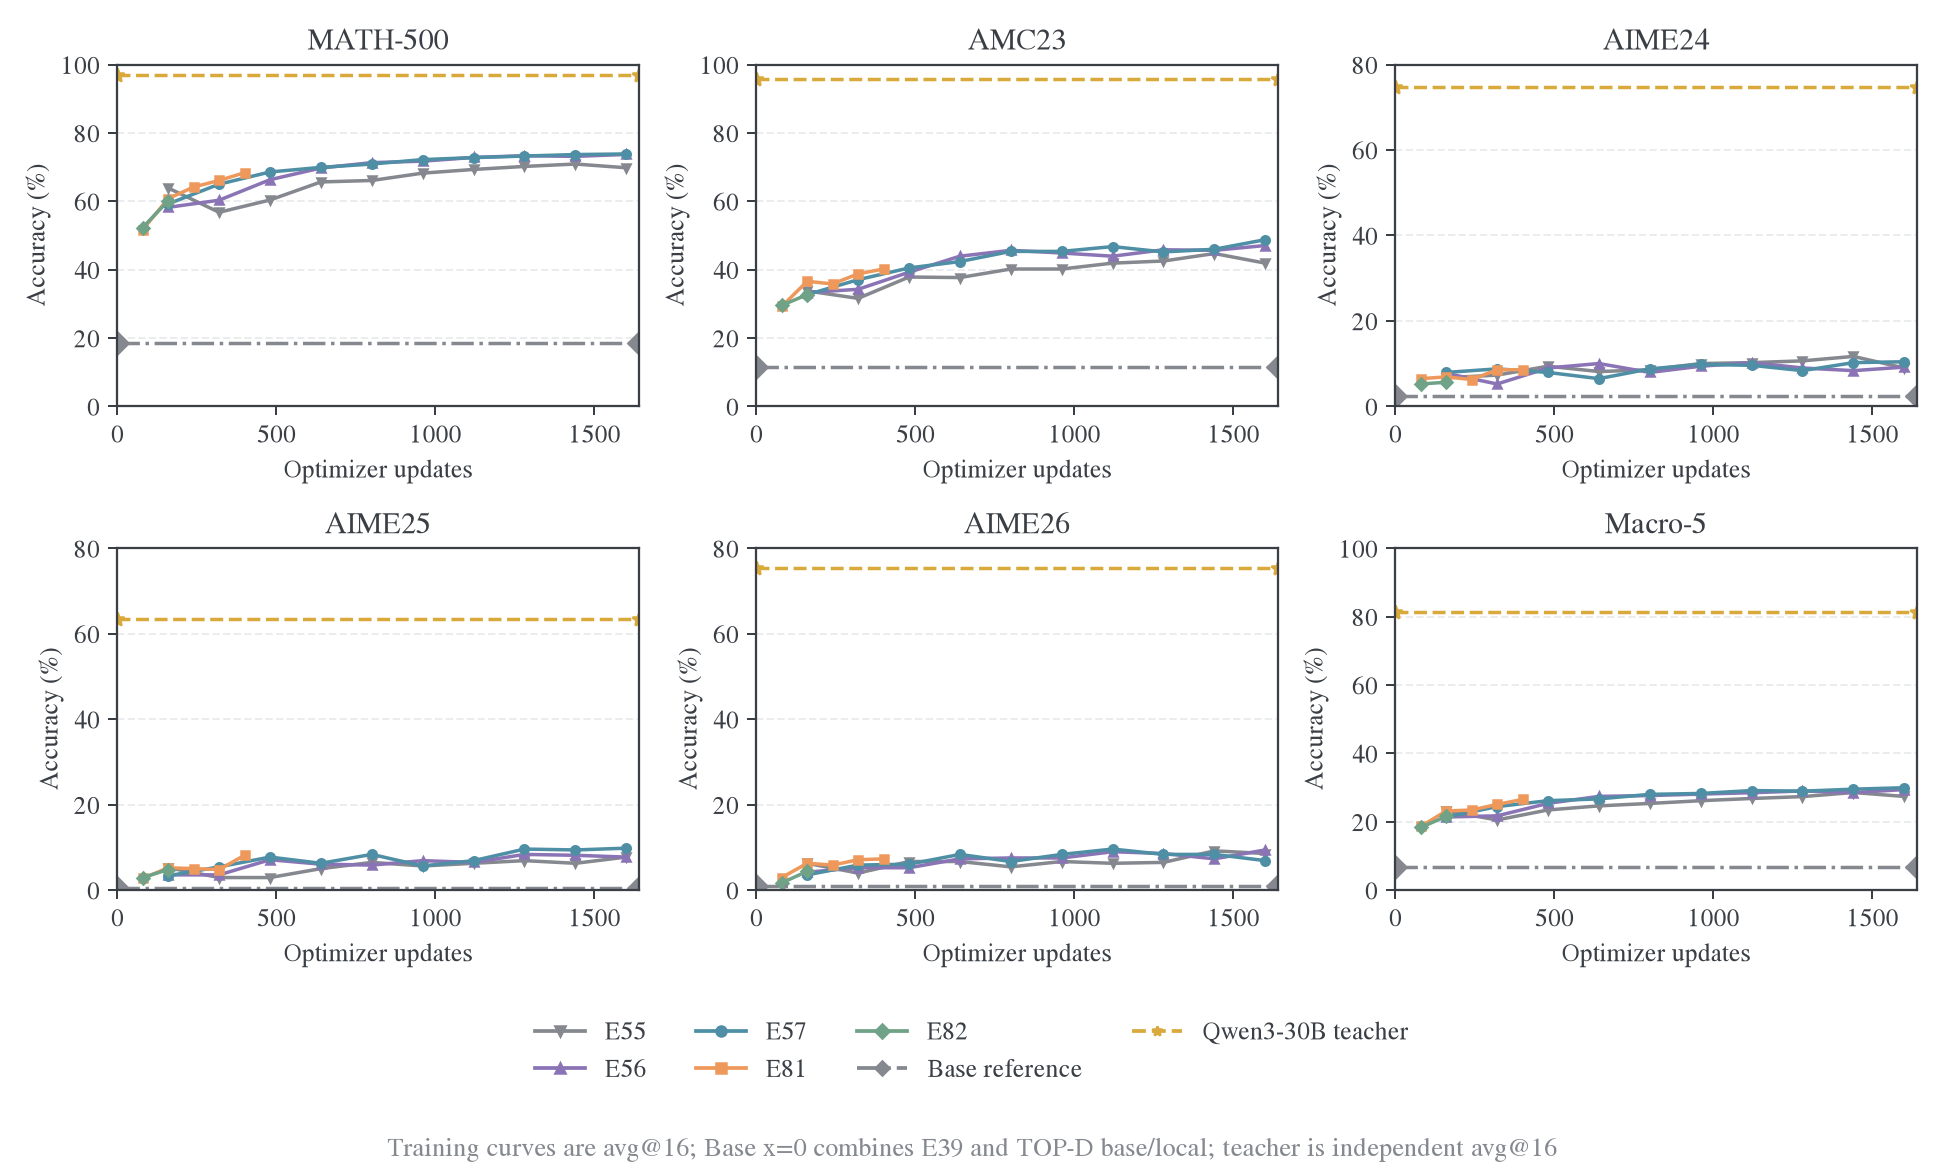
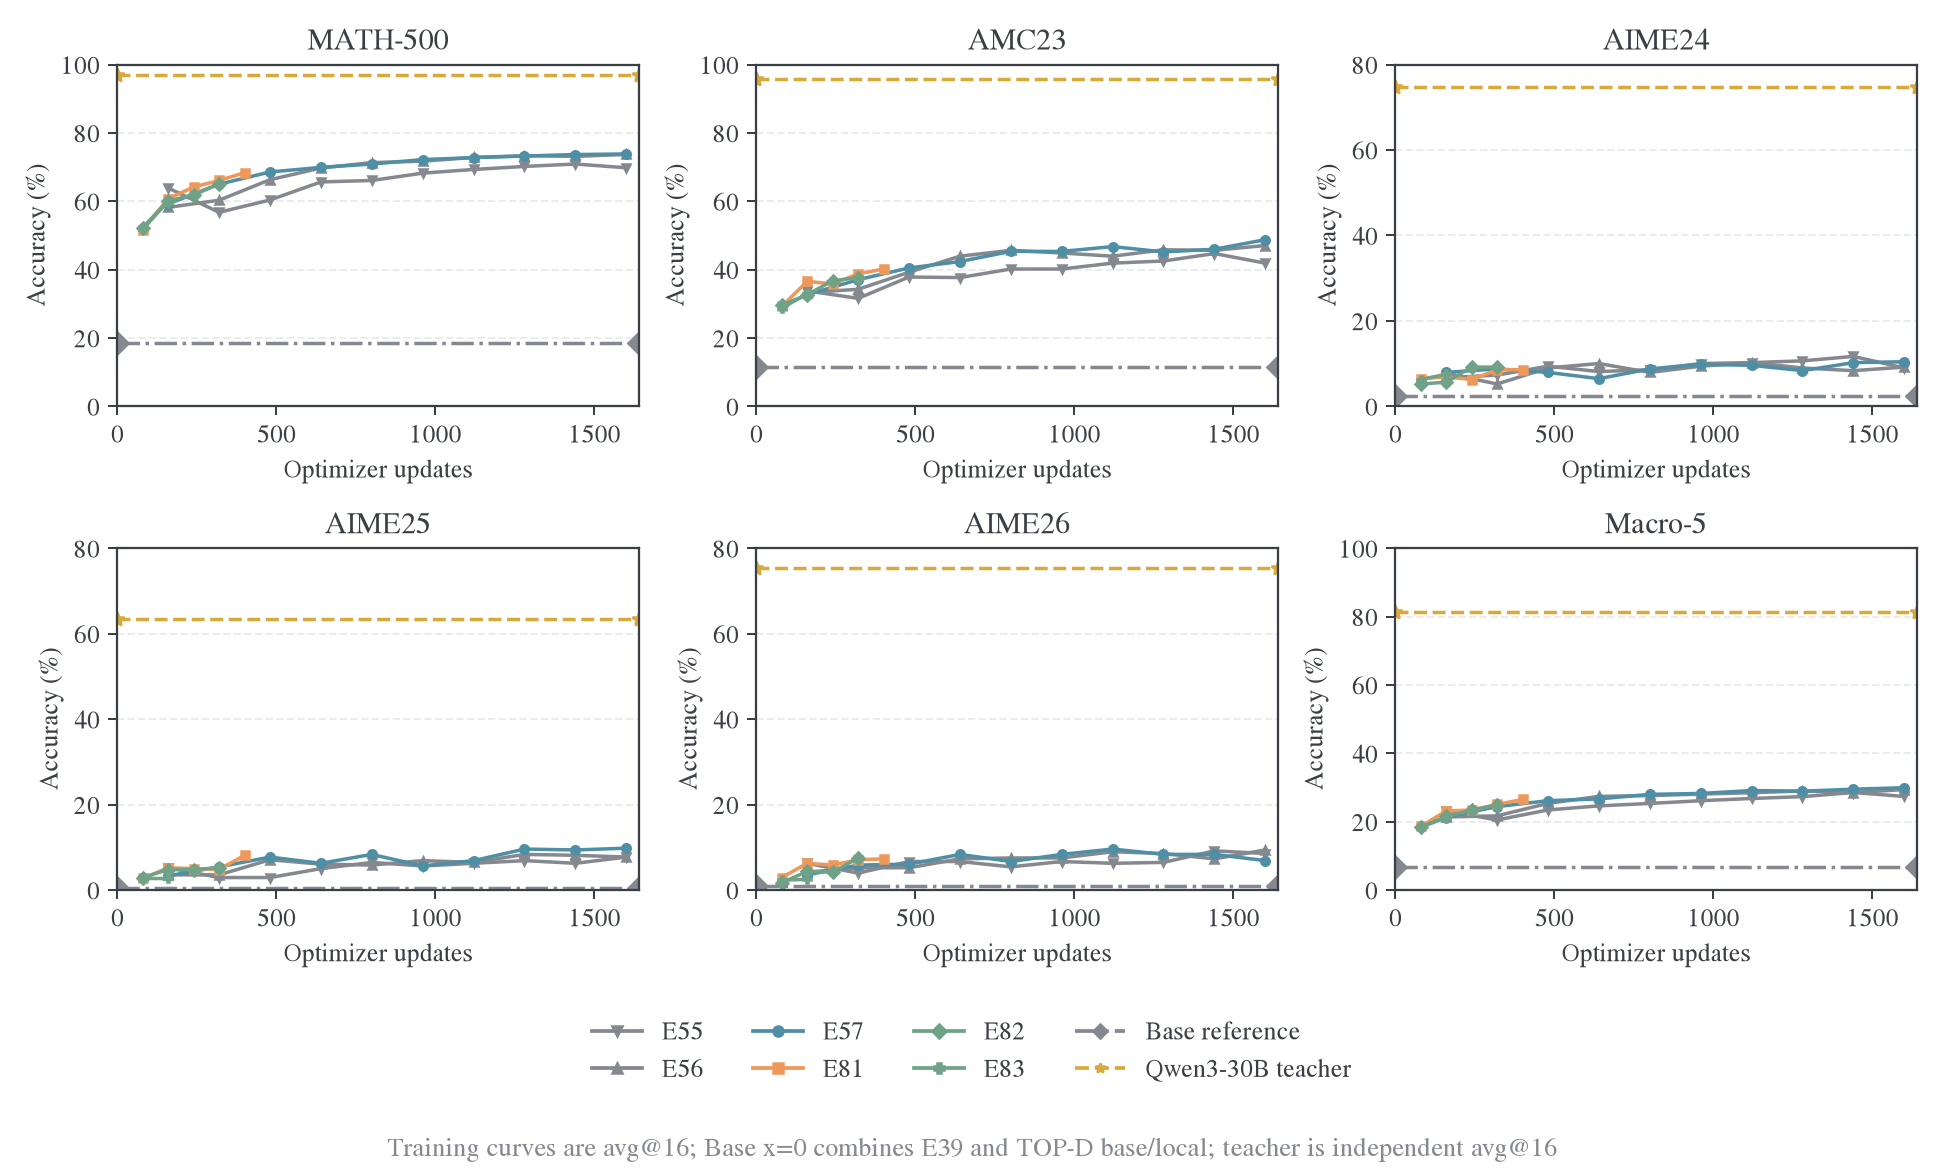
feat(learning-signal): update validation analysis and budget

diff --git a/examples/mirroropd/research/studies/weighted_targets/plot_validation_comparison.py b/examples/mirroropd/research/studies/weighted_targets/plot_validation_comparison.py
@@ -9,7 +9,7 @@ stopping: their repetition_rate is missing, never zero. EOS/stop is an engine
 finish category, not evidence of a coherent answer. Macro-5 and AIME means give
 each benchmark equal weight. TOP-D has no length/finish data in these sources.
 Geometry ledger: local runs use 16 updates/outer and batch64 (E55--57) or
-batch256 (E81/82). TOP-D alpha0.1/0.2 use 16 updates and 4096 presentations/outer.
+batch256 (E81--83). TOP-D alpha0.1/0.2 use 16 updates and 4096 presentations/outer.
 Accuracy panels use labelled independent benchmark y ranges; paper panels share
 0--25 percent. Full and early views contain only observed points within each
 window: no interpolated boundary observations, smoothing or extrapolation.
@@ -39,7 +39,7 @@ from examples.mirroropd.research.studies.weighted_targets.plot_e81_validation im
 BASE = ROOT / "examples/mirroropd/docs/experiments/learning-signal"
 DEFAULT_OUT = BASE / "figures/validation-comparison-20261106"
 RUNS = ROOT / "runs/topd-large-batch-20261105/formal"
-LOCAL = ("E55", "E56", "E57", "E81", "E82")
+LOCAL = ("E55", "E56", "E57", "E81", "E82", "E83")
 REFERENCE = ("Base reference", "Qwen3-30B teacher")
 ACCURACY_RUNS = (*LOCAL, *REFERENCE)
 PAPER = ("TOP-D alpha=0.1", "TOP-D alpha=0.2")
@@ -60,7 +60,7 @@ FIELDS = (
 
 
 def clock(run, outer):
-    batch = 256 if run in ("E81", "E82") or run in PAPER else 64
+    batch = 256 if run in ("E81", "E82", "E83") or run in PAPER else 64
     return dict(
         run=run,
         outer=outer,
@@ -126,7 +126,7 @@ def external_source(path):
 
 
 def extract_live(run, sources):
-    root = RUNS / run
+    root = RUNS / run if run != "E83" else ROOT / "runs/topd-learning-signal-20261106/formal/E83"
     path = root / "metrics.jsonl"
     original = path.read_bytes()
     raw, exclusions = trusted_metrics(path, original)
@@ -187,7 +187,20 @@ def extract_live(run, sources):
     }
     for key in ("update_applied", "update_skipped", "loss_nonfinite", "grad_norm_preclip_nonfinite"):
         audit[key] = sum(r["optim/actor/" + key] for r in updates)
-    return rows, audit
+    runtime = [
+        {
+            "run": run,
+            "outer": outer,
+            "optimizer_update": record["step/update"],
+            "train_seconds": record["perf/timing/outer_step_seconds"],
+            "validation_seconds": record["perf/timing/validation_seconds"],
+            "actor_seconds": record["perf/timing/update_actor_seconds"],
+            "rollout_seconds": record["perf/timing/rollout_pipeline_seconds"],
+            "train_response_length": record["rollout/response_length/mean"],
+        }
+        for outer, record in sorted(complete.items())
+    ]
+    return rows, audit, runtime
 
 
 def refresh(out):
@@ -218,9 +231,12 @@ def refresh(out):
                     }
                 )
     audit = {}
-    for run in ("E81", "E82"):
-        live, audit[run] = extract_live(run, sources)
+    runtime = []
+    for run in ("E81", "E82", "E83"):
+        live, audit[run], timing = extract_live(run, sources)
         rows.extend(live)
+        if run != "E81":
+            runtime.extend(timing)
     path = BASE / "data/topd-e57-all-curves-20261104/curves.csv"
     raw = path.read_bytes()
     sources.append(source(path, raw))
@@ -249,6 +265,22 @@ def refresh(out):
         writer = csv.DictWriter(stream, fieldnames=FIELDS)
         writer.writeheader()
         writer.writerows(rows)
+    with (out / "runtime.csv").open("w", newline="") as stream:
+        writer = csv.DictWriter(
+            stream,
+            fieldnames=(
+                "run",
+                "outer",
+                "optimizer_update",
+                "train_seconds",
+                "validation_seconds",
+                "actor_seconds",
+                "rollout_seconds",
+                "train_response_length",
+            ),
+        )
+        writer.writeheader()
+        writer.writerows(runtime)
     (out / "source-audit.json").write_text(json.dumps(audit, indent=2) + "\n")
     provenance = {
         "snapshot_utc": datetime.now(timezone.utc).isoformat(timespec="seconds"),
@@ -270,10 +302,10 @@ def refresh(out):
         "local_metric": "benchmark avg@16; macro5/AIME mean are unweighted benchmark means",
         "paper_metric": "Figure5 vector vertices avg@32; published smoothing, if any, is retained",
         "missing": "Repetition stopping disabled in E55--57: blank, not zero. Paper length/finish metrics unavailable.",
-        "clocks": "16 updates/outer; local batch64(E55--57)/256(E81/82); TOP-D4096 presentations/outer",
+        "clocks": "16 updates/outer; local batch64(E55--57)/256(E81--83); TOP-D4096 presentations/outer",
         "limitations": [
             "Paper/local prompts, decoding, cap, scoring and update algorithms differ; no causal ranking",
-            "E55--57 use historical numerical execution and no repetition stopping; E81/82 enable detector",
+            "E55--57 use historical numerical execution and no repetition stopping; E81--83 enable detector",
             "E81/82 share a nominal seed/prefix setting, not independent replications",
             "Only complete live validations with matching metrics are admitted; "
             "independent Base/teacher references are explicit x=0 points",
@@ -334,20 +366,21 @@ def plot(rows, out):
 
     fv = style()
     theme = fv.apply_rc("paper")
-    # Each figure has at most four active hue families plus neutral gray.
+    # Reuse the same run colors throughout the figure set.
     palette = fv.series_colors("paper", 9)
     colors = {
         "E55": fv.NEUTRALS["baseline"],
-        "E56": palette[3],
+        "E56": fv.NEUTRALS["baseline"],
         "E57": palette[0],
         "E81": palette[1],
         "E82": palette[4],
+        "E83": palette[4],
         PAPER[0]: palette[2],
         PAPER[1]: palette[2],
         REFERENCE[0]: fv.NEUTRALS["baseline"],
         REFERENCE[1]: palette[5],
     }
-    markers = dict(zip(LOCAL, ("v", "^", "o", "s", "D"), strict=True)) | {
+    markers = dict(zip(LOCAL, ("v", "^", "o", "s", "D", "P"), strict=True)) | {
         PAPER[0]: "",
         PAPER[1]: "",
         REFERENCE[0]: "D",
@@ -459,7 +492,7 @@ def plot(rows, out):
         )
         save(fig, out, stem, fv)
 
-    runs = ("E57", "E81", "E82", *PAPER, *REFERENCE)
+    runs = ("E57", "E81", "E82", "E83", *PAPER, REFERENCE[0])
     for key, label, stem, full, early, divisor in (
         ("optimizer_update", "Optimizer updates", "aime-optimizer-updates", 6720, 1600, 1),
         (
@@ -518,10 +551,30 @@ def plot(rows, out):
             fig,
             runs,
             "Local avg@16 / paper avg@32 vector readouts; protocols differ; no invented local step0\n"
-            "Early panels connect only observations inside the window; full curves are shown above",
+            "Teacher omitted above 25%; see full-range accuracy panels",
             columns=5,
         )
         save(fig, out, stem, fv)
+
+    with (out / "runtime.csv").open() as stream:
+        runtime = list(csv.DictReader(stream))
+    if runtime:
+        fig, axes = plt.subplots(1, 2, figsize=(10.2, 4.1), sharey=True)
+        for ax, run in zip(axes, ("E82", "E83"), strict=True):
+            points = [r for r in runtime if r["run"] == run]
+            xs = [int(r["outer"]) for r in points]
+            train = [float(r["train_seconds"]) / 60 for r in points]
+            valid = [float(r["validation_seconds"]) / 60 for r in points]
+            width = 1.7
+            ax.bar(xs, train, width=width, label="Training", color=palette[4])
+            ax.bar(xs, valid, width=width, bottom=train, label="Validation", color=fv.NEUTRALS["baseline"])
+            ax.set(title=run, xlabel="Completed outer", xticks=xs)
+            frame(ax)
+        axes[0].set_ylabel("Minutes per outer and validation event")
+        handles, labels = axes[0].get_legend_handles_labels()
+        fig.legend(handles, labels, loc="lower center", ncol=2, frameon=False, bbox_to_anchor=(0.5, 0.035))
+        fig.tight_layout(rect=(0, 0.12, 1, 1))
+        save(fig, out, "training-validation-runtime", fv)
 
 
 def main():

diff --git a/examples/mirroropd/launchers/prepare_validation_budget.py b/examples/mirroropd/launchers/prepare_validation_budget.py
@@ -1,0 +1,68 @@
+#!/usr/bin/env python3
+# Copyright 2026 MirrorOPD-verl contributors
+# SPDX-License-Identifier: Apache-2.0
+"""Create immutable per-benchmark validation copies with an explicit rollout n."""
+
+from __future__ import annotations
+
+import argparse
+import hashlib
+import json
+from pathlib import Path
+
+import pyarrow as pa
+import pyarrow.parquet as pq
+
+ROLLOUTS = {"MATH-500": 4, "AMC23": 16, "AIME24": 16, "AIME25": 16, "AIME26": 16}
+
+
+def prepare(output_dir: Path, inputs: list[Path]) -> dict:
+    if len(inputs) != len(ROLLOUTS):
+        raise ValueError(f"Expected {len(ROLLOUTS)} benchmark files, got {len(inputs)}")
+
+    manifest = {"profile": "math4_rest16", "datasets": {}}
+    seen = set()
+    for source_path in inputs:
+        table = pq.read_table(source_path)
+        if "data_source" not in table.column_names:
+            raise ValueError(f"Validation file lacks data_source: {source_path}")
+        names = set(table.column("data_source").to_pylist())
+        if len(names) != 1:
+            raise ValueError(f"Expected one data_source in {source_path}, got {sorted(names)}")
+        name = names.pop()
+        if name not in ROLLOUTS or name in seen:
+            raise ValueError(f"Unexpected or duplicate validation benchmark {name!r}")
+        if "__rollout_n__" in table.column_names:
+            raise ValueError(f"Refusing to replace existing __rollout_n__ in {source_path}")
+        seen.add(name)
+
+        rollout_n = ROLLOUTS[name]
+        output_path = output_dir / name / source_path.name
+        output_path.parent.mkdir(parents=True, exist_ok=True)
+        table = table.append_column("__rollout_n__", pa.array([rollout_n] * table.num_rows, type=pa.int64()))
+        pq.write_table(table, output_path)
+        manifest["datasets"][name] = {
+            "source": str(source_path.resolve()),
+            "source_sha256": hashlib.sha256(source_path.read_bytes()).hexdigest(),
+            "output": str(output_path.resolve()),
+            "rows": table.num_rows,
+            "rollout_n": rollout_n,
+        }
+
+    if seen != set(ROLLOUTS):
+        raise ValueError(f"Missing benchmarks: {sorted(set(ROLLOUTS) - seen)}")
+    output_dir.mkdir(parents=True, exist_ok=True)
+    (output_dir / "manifest.json").write_text(json.dumps(manifest, indent=2) + "\n")
+    return manifest
+
+
+def main() -> None:
+    parser = argparse.ArgumentParser()
+    parser.add_argument("--output-dir", required=True, type=Path)
+    parser.add_argument("inputs", nargs="+", type=Path)
+    args = parser.parse_args()
+    prepare(args.output_dir, args.inputs)
+
+
+if __name__ == "__main__":
+    main()

diff --git a/tests/examples/test_validation_budget_profile.py b/tests/examples/test_validation_budget_profile.py
@@ -1,0 +1,35 @@
+# Copyright 2026 MirrorOPD-verl contributors
+# SPDX-License-Identifier: Apache-2.0
+
+import pyarrow as pa
+import pyarrow.parquet as pq
+import pytest
+
+from examples.mirroropd.launchers.prepare_validation_budget import ROLLOUTS, prepare
+
+
+def test_math4_rest16_prepares_per_benchmark_rollout_counts_without_mutating_sources(tmp_path):
+    inputs = []
+    for name in ROLLOUTS:
+        path = tmp_path / "source" / name / "test.parquet"
+        path.parent.mkdir(parents=True)
+        pq.write_table(pa.table({"data_source": [name, name], "prompt": [[], []]}), path)
+        inputs.append(path)
+
+    output = tmp_path / "run" / "validation-budget" / "math4-rest16"
+    manifest = prepare(output, inputs)
+
+    assert {name: entry["rollout_n"] for name, entry in manifest["datasets"].items()} == ROLLOUTS
+    for name in ROLLOUTS:
+        source = pq.read_table(tmp_path / "source" / name / "test.parquet")
+        prepared = pq.read_table(output / name / "test.parquet")
+        assert "__rollout_n__" not in source.column_names
+        assert prepared.column("__rollout_n__").to_pylist() == [ROLLOUTS[name]] * 2
+        assert prepared.column("data_source").to_pylist() == [name, name]
+
+
+def test_math4_rest16_rejects_unknown_or_duplicate_benchmarks(tmp_path):
+    path = tmp_path / "test.parquet"
+    pq.write_table(pa.table({"data_source": ["unknown"]}), path)
+    with pytest.raises(ValueError, match="Unexpected or duplicate"):
+        prepare(tmp_path / "output", [path] * len(ROLLOUTS))

diff --git a/examples/mirroropd/launchers/math_experiment.py b/examples/mirroropd/launchers/math_experiment.py
@@ -326,6 +326,8 @@ def preset_catalog() -> dict[str, Preset]:
     for number, future, aggregation, _label in eight_gpu_ablation:
         environment = dict(presets["E82"].environment)
         environment["STUDENT_GPUS"] = "8"
+        if number >= 87:
+            environment["VAL_N_PROFILE"] = "math4_rest16"
         presets[f"E{number}"] = replace(
             presets["E82"],
             budget=replace(presets["E82"].budget, save=-1, keep=None),
@@ -791,6 +793,7 @@ def preset_overview() -> str:
             "E85–E90：继承E82预算与MDPO设置，改用8卡 shared_sync；"
             "E85/E86/E87分别为none下的token-sum、seq-mean-token-sum、seq-mean-token-sum-norm；"
             "E88/E89/E90分别为token-mean下的future sum、discounted_sum(gamma=.99)、discounted_mean(gamma=.99)。"
+            "E87–E90 使用MATH-500 n=4、其余四个数学bench n=16；E85/E86维持原avg@16。"
             "六组均save_freq=-1、resume_mode=disable，不保存checkpoint、HF模型或optimizer。",
             "E41/E54 Full-KL 与 full-vocab MDPO 默认对齐终止动作 [151643,151645]；"
             "FULL_KL_TERMINATION_TOKEN_IDS=[] 可恢复原始词表目标。",

diff --git a/tests/examples/test_mirroropd_math_launcher_on_cpu.py b/tests/examples/test_mirroropd_math_launcher_on_cpu.py
@@ -139,6 +139,7 @@ def _launch(tmp_path, script=SCRIPT, command=None, **overrides):
         "FULL_KL_ASYNC_WRITE",
         "FULL_KL_PREFETCH",
         "FULL_KL_TERMINATION_TOKEN_IDS",
+        "VAL_N_PROFILE",
     ):
         env.pop(name, None)
     env.update(
@@ -1468,3 +1469,7 @@ def test_topd_eight_gpu_ablation_presets_disable_checkpoints(tmp_path, preset, f
     assert loss.full_vocab.future.mode == future and loss.full_vocab.future.gamma == gamma
     assert actor.loss_agg_mode == aggregation
     assert actor.optim.lr == 1e-6 and actor.ppo_epochs == 16
+    if preset in {"E85", "E86"}:
+        assert all("math4-rest16" not in path for path in cfg.data.val_files)
+    else:
+        assert cfg.data.val_files[0].endswith("math4-rest16/MATH-500/test.parquet")

diff --git a/examples/mirroropd/docs/experiments/learning-signal/weighted-targets-controls.md b/examples/mirroropd/docs/experiments/learning-signal/weighted-targets-controls.md
@@ -486,6 +486,8 @@ $$
 | E90      | `discounted_mean`，γ0.99 | `token-mean`              | 只改 future：折扣后续均值             |
 | 尚未排期 | `mean`，γ1               | `seq-mean-token-mean`     | future 与聚合的交互；本轮不启动       |
 
+E85/E86 已按五个 benchmark 统一 n=16 启动。后续 E87–E90 使用 MATH-500 n=4、AMC23 与 AIME24/25/26 n=16，每个完整验证点为 4,080 条回答，较统一 n=16 减少约 59.5%；这些节点与前两组的估计精度不同，图表和表格须明确标注评测预算。
+
 Future 的配置全名为 `distillation.distillation_loss.full_vocab.future.mode`；聚合字段为 `actor_rollout_ref.actor.loss_agg_mode`，见[当前实现合同](../../infra/architecture/full-vocab.md#聚合与未来信用)。`mean` 使用严格后续 token 的平均训练代价，排除当前 token、detach 后乘 sampled-action score；它不是增加最终答案正确性 reward，也没有改变教师。MDPO 的 future 采用当前实际 local cost；一般 κ 下包含状态相关 normalizer。`mean` 是 TOP-D 风格的后续均值结构，不宣称与官方固定 sampled reward 的 return 相同。
 
 `token-mean` 按所有有效 token 平均，长回答的合计权重随长度增加；`seq-mean-token-mean` 先在回答内平均，再对回答等权，改变各回答的相对权重。它与官方的 prompt 组内 advantage 标准化是两件事。两种聚合也会改变整体梯度尺度，需同时看 preclip norm、裁剪比例、local／future surrogate 与任务读出，不能把差异全解释成纯粹的长度偏好。既有[归一化核查](normalization.md)未将 token-mean 确认为主要故障，E83 是有待验证的对照。
